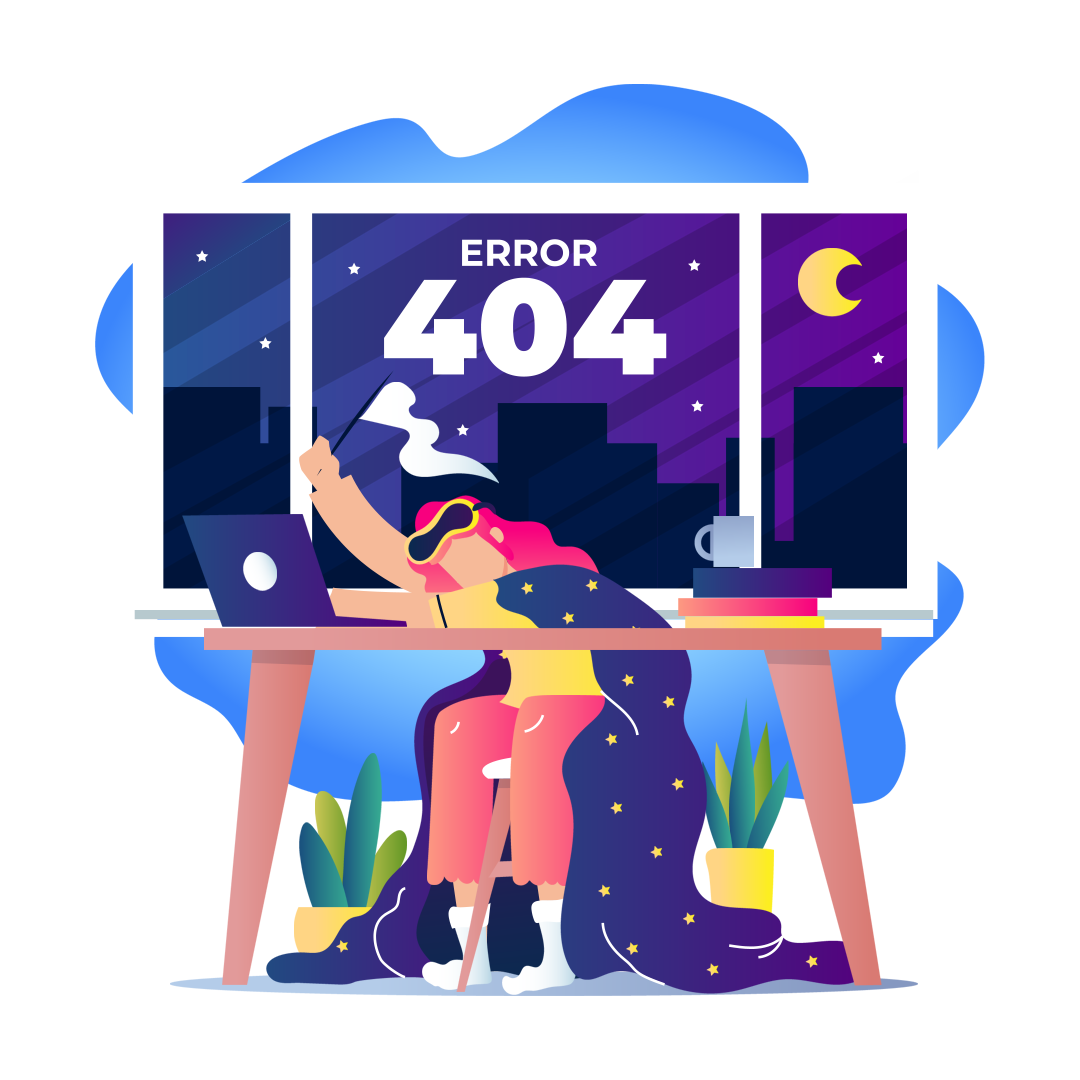
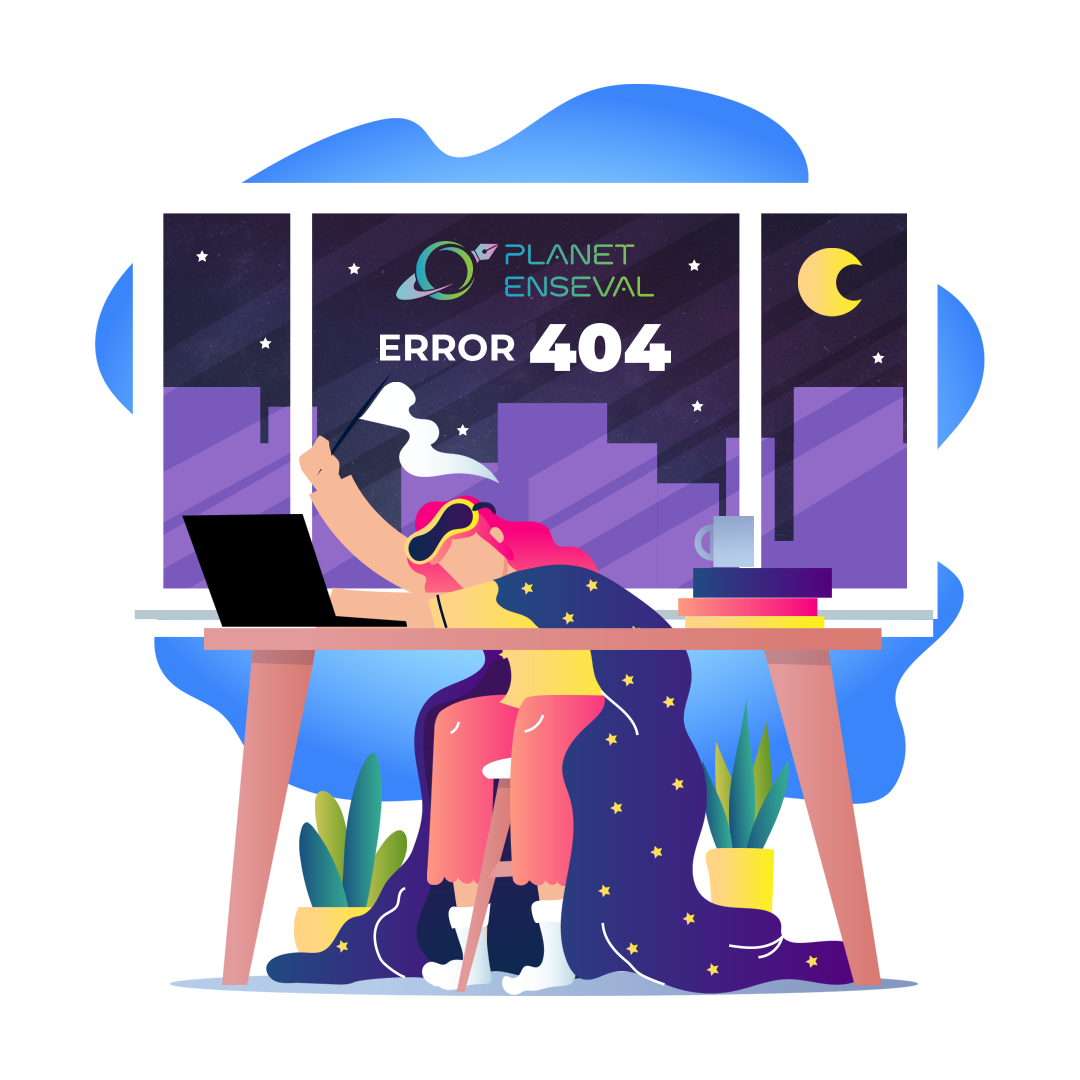
add new internet checking logic

Changed region(s): [[0.1528, 0.1833, 0.8556, 0.5806]]

diff --git a/lib/views/pages/home/home_page.dart b/lib/views/pages/home/home_page.dart
@@ -32,12 +32,20 @@ class HomePage extends StatelessWidget {
           }
           if (snapshot.hasError) {
             return SizedBox(
-              height: 100,
               width: MediaQuery.of(context).size.width,
-              child: const Center(
-                child: Text(
-                  'Error: Checking Connection',
-                  textAlign: TextAlign.center,
+              child: Center(
+                child: Column(
+                  children: [
+                    const HomePageAppBar(),
+                    const SizedBox(
+                      height: 70,
+                    ),
+                    Image.asset(
+                      'assets/error planet.png', // Replace this with the path to your logo image
+                      width: 400, // Set the height of the logo image
+                    ),
+                    // Text(connected.toString()),
+                  ],
                 ),
               ),
             );

diff --git a/lib/views/pages/elearning/elearningCourse/elearning_course_page.dart b/lib/views/pages/elearning/elearningCourse/elearning_course_page.dart
@@ -475,7 +475,7 @@ class _ElearningCoursePageState extends State<ElearningCoursePage> {
                                                                         const SizedBox(width: 8,),
                                                                         TestDetail(
                                                                         icon: 'assets/icons/test_status.png',
-                                                                        text:  !isLesson ? ((lesson.score ?? 0) > lesson.passingScore ? "Lulus" : "Gagal") : "",
+                                                                        text:  !isLesson ? (lesson.attempt == null ? '-' : ((lesson.score ?? 0) > lesson.passingScore ? "Lulus" : "Gagal")) : "",
                                                                         ),
                                                                       ],
                                                                     ),

diff --git a/lib/views/pages/dashboard/dashboard_page.dart b/lib/views/pages/dashboard/dashboard_page.dart
@@ -70,9 +70,10 @@ class DashboardPage extends StatelessWidget {
               Image.asset(
                 imagePath,
                 color: blackColor,
-                height: 25,
+                height: label == 'Community' ? 20 : 25,
+                // width: 25,
               ),
-              const SizedBox(height: 10,),
+              SizedBox(height: label == 'Community' ? 15 : 10,),
             ],
           ),
         ),
@@ -85,9 +86,10 @@ class DashboardPage extends StatelessWidget {
               Image.asset(
                 imagePath,
                 color: primaryColor,
-                height: 25,
+                height: label == 'Community' ? 25 : 30,
+                // width: 25,
               ),
-              const SizedBox(height: 10,),
+              SizedBox(height: label == 'Community' ? 15 : 10,),
             ],
           ),
         ),

diff --git a/lib/providers/elearnings/user_record_provider.dart b/lib/providers/elearnings/user_record_provider.dart
@@ -90,6 +90,25 @@ class UserRecordProvider {
     }
   }
 
+  static Future<UserPostTestAccessRequest> checkExistingUserFeedback(String userToken, String elearningTestId) async {
+    try {
+      final response = await http.get(
+        Uri.parse('${GlobalVariable.apiUrl}/userRecords/checkExistingUserPostTestAccessRequest/$elearningTestId'),
+        headers: {
+          'Authorization' : 'bearer $userToken',
+        },
+      );
+      if (response.statusCode == 200) {
+        var jsonResponse = response.body;
+        return userPostTestAccessRequestFromJson(jsonResponse);
+      } else {
+        throw Exception('Failed to fetch data from API');
+      }
+    } catch (e) {
+      throw Exception('Error: $e');
+    }
+  }
+
 }
 
 

diff --git a/lib/helpers/global_variable.dart b/lib/helpers/global_variable.dart
@@ -1,6 +1,7 @@
 import 'package:flutter_secure_storage/flutter_secure_storage.dart';
 import 'package:internet_connection_checker/internet_connection_checker.dart';
 import 'package:jwt_decoder/jwt_decoder.dart';  
+import 'package:http/http.dart' as http;
 
 class GlobalVariable {
 
@@ -27,7 +28,12 @@ class GlobalVariable {
 
   static Future<bool> checkInternetConnection() async {
     bool result = await InternetConnectionChecker().hasConnection;
-    if(result == true) {  
+    
+    final response = await http.get(
+      Uri.parse('${GlobalVariable.apiUrl}/testConnection')
+    );
+
+    if(result == true && response.statusCode == 200) {  
       return true;
     } else {
       return false;

diff --git a/lib/controllers/elearnings/user_record_controller.dart b/lib/controllers/elearnings/user_record_controller.dart
@@ -38,4 +38,17 @@ class UserRecordController {
     }
   }
 
+  static Future<UserPostTestAccessRequest> checkExistingUserFeedback(String elearningTestId) async {
+    UserPostTestAccessRequest userPostTestAccessRequest = UserPostTestAccessRequest();
+
+    try {
+      String? userToken = await GlobalVariable.secureStorage.read(key: 'user_token');
+      userPostTestAccessRequest = await UserRecordProvider.checkExistingUserFeedback(userToken ?? "", elearningTestId);
+
+      return userPostTestAccessRequest;
+    } on Exception {
+      return UserPostTestAccessRequest();
+    }
+  }
+
 }

diff --git a/lib/views/pages/elearning/elearninTest/feedback/elearning_feedback_page_controller.dart b/lib/views/pages/elearning/elearninTest/feedback/elearning_feedback_page_controller.dart
@@ -1,0 +1,7 @@
+
+
+import 'package:get/get.dart';
+
+class ElearningFeedbackPageController extends GetxController {
+  
+}
